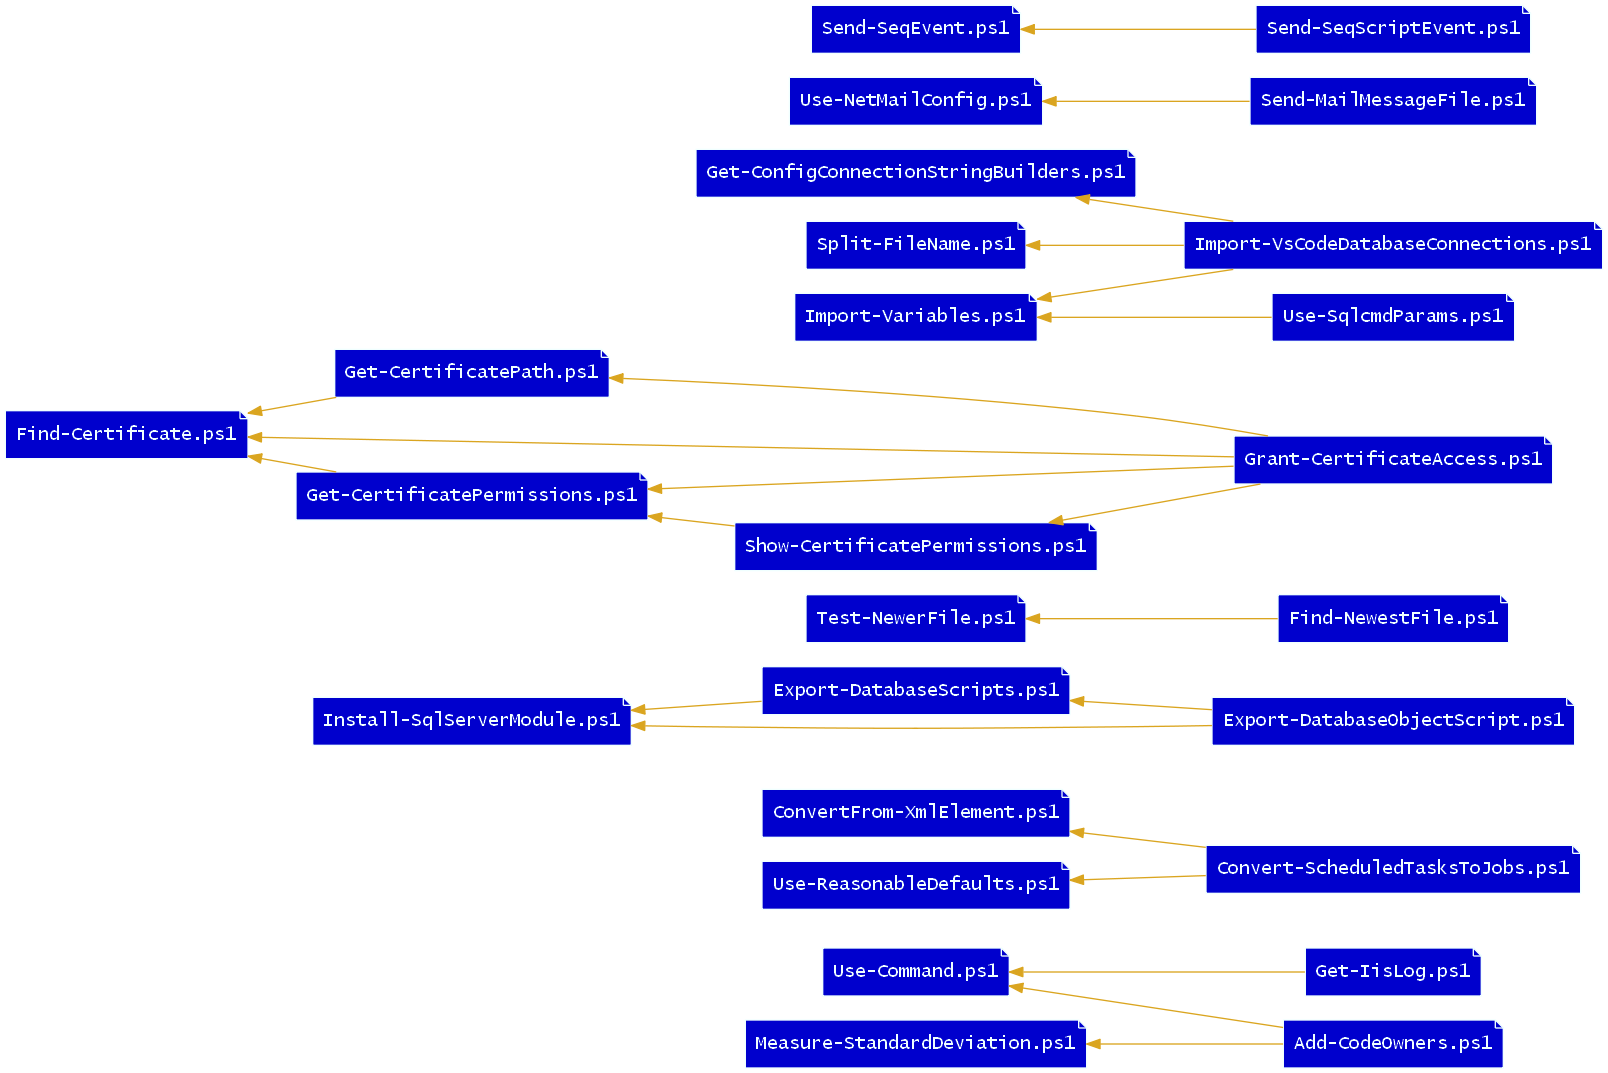
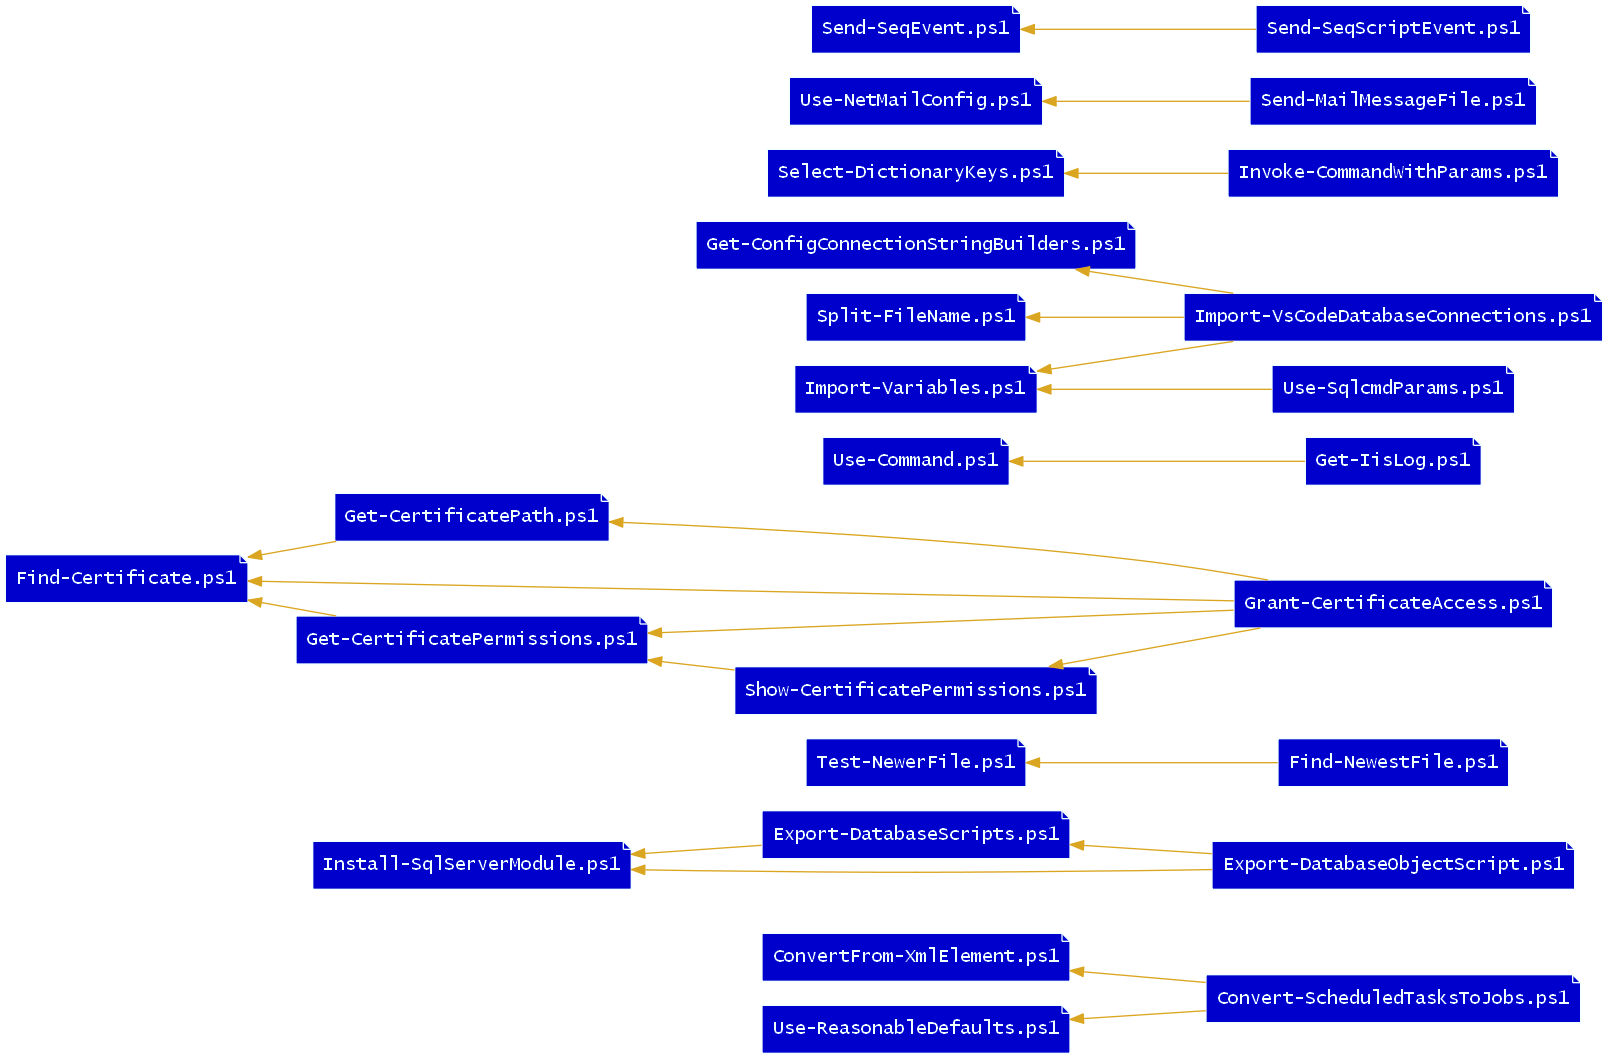
New scripts for hash selection & param passing

diff --git a/README.md b/README.md
@@ -7,7 +7,6 @@ PowerShell Scripts
 ![script dependencies](dependencies.png)
 
 - **[Add-CapturesToMatches.ps1](Add-CapturesToMatches.ps1)**: Adds named capture groups as note properties to Select-String's MatchInfo objects.
-- **[Add-CodeOwners.ps1](Add-CodeOwners.ps1)**: Adds a file to indicate GitHub code owners for a repo.
 - **[Add-Xml.ps1](Add-Xml.ps1)**: Insert XML into an XML document relative to a node found by Select-Xml.
 - **[Backup-File.ps1](Backup-File.ps1)**: Create a backup as a sibling to a file, with date and time values in the name.
 - **[Backup-SchTasks.ps1](Backup-SchTasks.ps1)**: Exports the local list of Scheduled Tasks into a single XML file.
@@ -54,6 +53,7 @@ PowerShell Scripts
 - **[Import-VsCodeDatabaseConnections.ps1](Import-VsCodeDatabaseConnections.ps1)**: Adds config XDT connection strings to VSCode settings.
 - **[Install-ActiveDirectoryModule.ps1](Install-ActiveDirectoryModule.ps1)**: Installs the PowerShell ActiveDirectory module.
 - **[Install-SqlServerModule.ps1](Install-SqlServerModule.ps1)**: Installs SqlServer module and dependencies.
+- **[Invoke-CommandWithParams.ps1](Invoke-CommandWithParams.ps1)**: Execute a command by using matching dictionary entries as parameters.
 - **[Join-FileName.ps1](Join-FileName.ps1)**: Combines a filename with a string.
 - **[Measure-Indents.ps1](Measure-Indents.ps1)**: Measures the indentation characters used in a text file.
 - **[Measure-StandardDeviation.ps1](Measure-StandardDeviation.ps1)**: Calculate the standard deviation of numeric values.
@@ -64,6 +64,7 @@ PowerShell Scripts
 - **[Remove-Xml.ps1](Remove-Xml.ps1)**: Removes a node found by Select-Xml from its XML document.
 - **[Repair-DatabaseConstraintNames.ps1](Repair-DatabaseConstraintNames.ps1)**: Finds database constraints with system-generated names and gives them deterministic names.
 - **[Restore-SchTasks.ps1](Restore-SchTasks.ps1)**: Imports from a single XML file into the local Scheduled Tasks.
+- **[Select-DictionaryKeys.ps1](Select-DictionaryKeys.ps1)**: Constructs an OrderedDictionary by selecting keys from a given IDictionary.
 - **[Select-XmlNodeValue.ps1](Select-XmlNodeValue.ps1)**: Returns the value of an XML node found by Select-Xml.
 - **[Send-MailMessageFile.ps1](Send-MailMessageFile.ps1)**: Sends emails from a drop folder using .NET config defaults.
 - **[Send-SeqEvent.ps1](Send-SeqEvent.ps1)**: Send an event to a Seq server.
@@ -98,4 +99,4 @@ Office VBA Scripts
 - **[OutlookPasteFormattedIndented.vba](OutlookPasteFormattedIndented.vba)**: Outlook will strip single-space indents when displaying emails. If you've got, for example, syntax highlighted source code that employs any indentation of only one space, you'll want to add two spaces to the each line (adding one will not appear for text that isn't indented). This Outlook script will paste formatted text, and indent it. Requires Tools -> References -> Microsoft Word 14.0 Object Library (later versions may also work) 
 - **[OutlookPasteTsvTable.vba](OutlookPasteTsvTable.vba)**: This Outlook VBA Sub can be connected to a toolbar button for pasting TSV data as an attractive, formatted table. -BL Requires Tools -> References -> Microsoft Word 14.0 Object Library (later versions may also work) 
 
-<!-- generated 11/30/2017 16:35:46 -->
+<!-- generated 12/02/2017 01:45:48 -->
